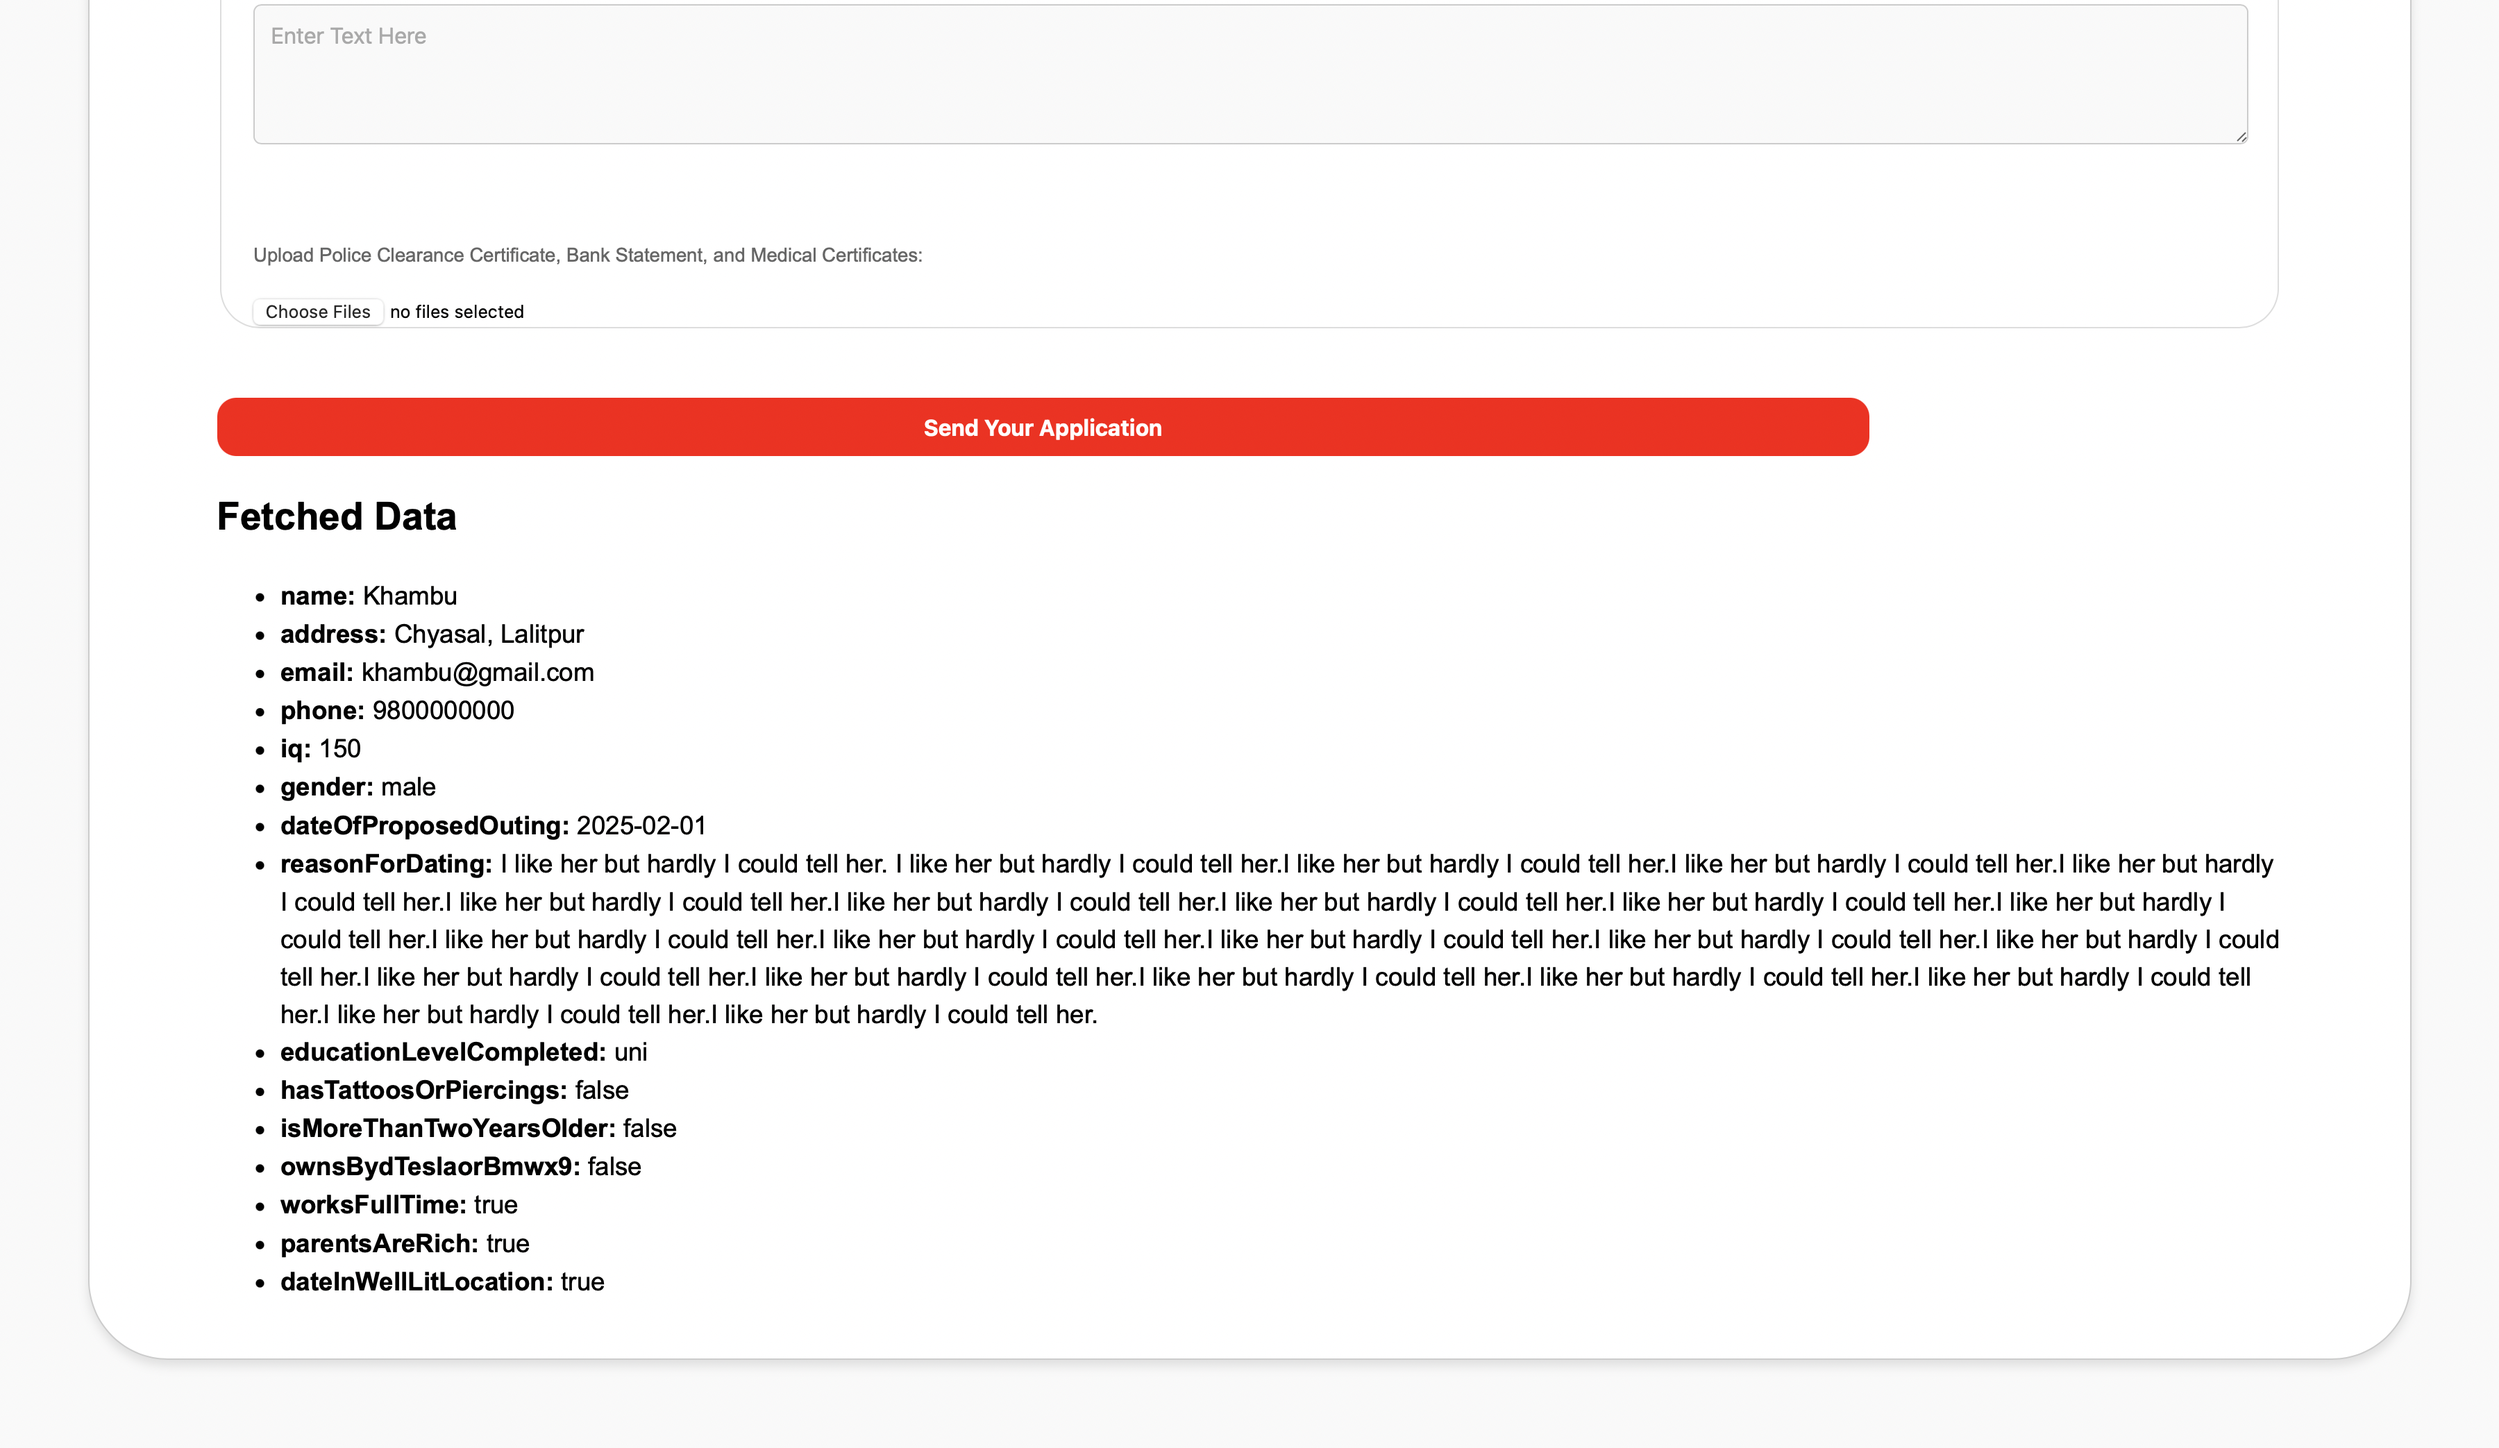
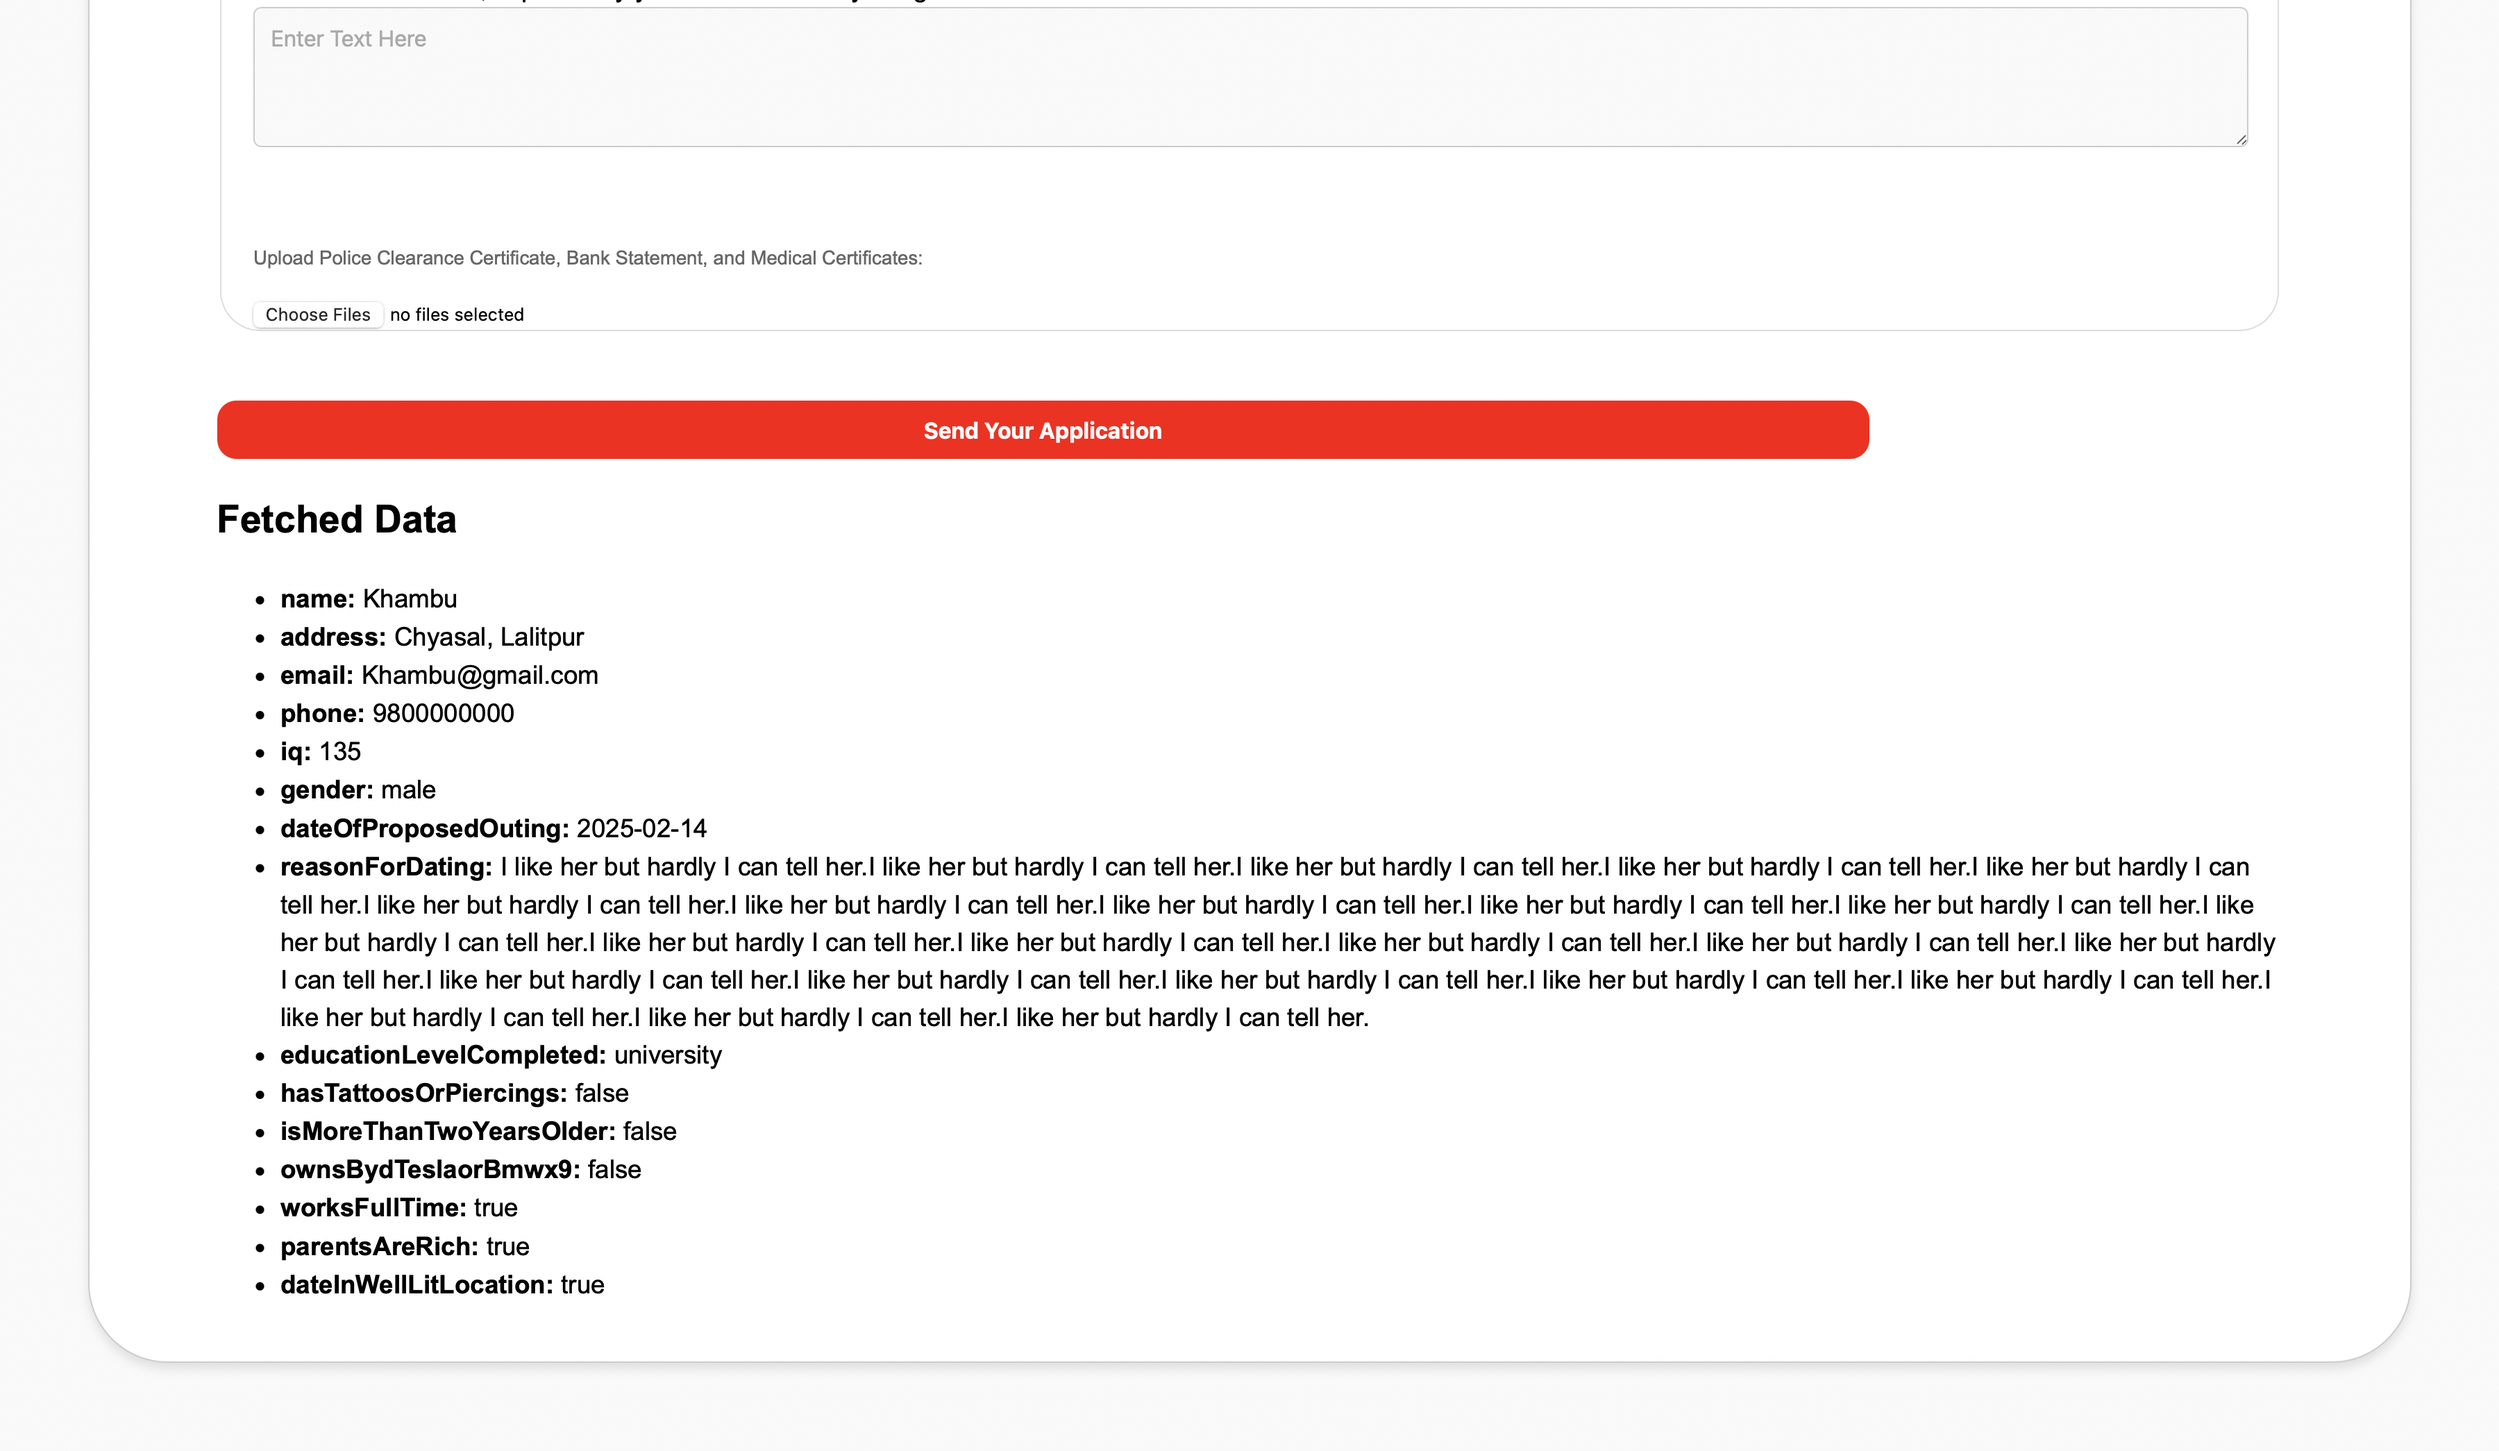
minor fixes: in output and code

diff --git a/2025-01-24/form_api_task/replica_task.html b/2025-01-24/form_api_task/replica_task.html
@@ -293,7 +293,7 @@
                 <legend>Educational Details</legend>
                 <label for="education_level">Education Level:</label>
                 <select id="education_level">
-                    <option value="uni">University</option>
+                    <option value="univeristy">University</option>
                     <option value="college">College</option>
                     <option value="high_school">High School</option>
                     <option value="none">None</option>
